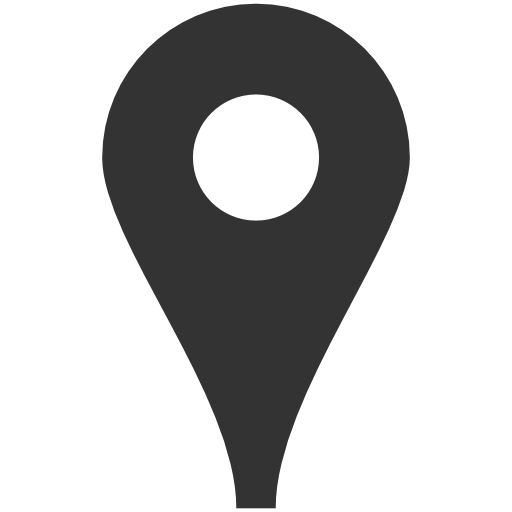
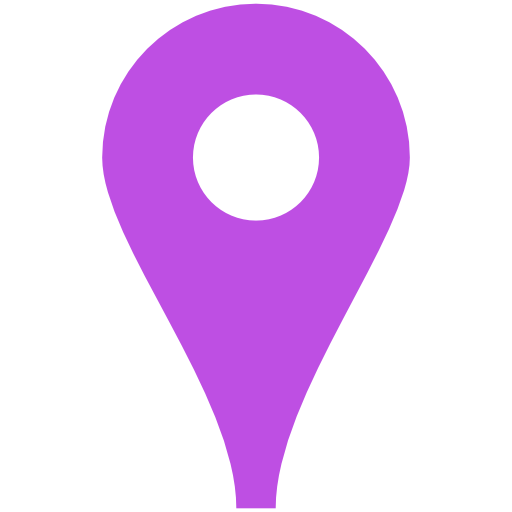
new the tablet view

diff --git a/tablet.html b/tablet.html
@@ -1,0 +1,65 @@
+<!DOCTYPE html>
+<html lang="en">
+	<head>
+		<!-- meta tags -->
+		<meta charset="UTF-8">
+		<meta name="copyright" content="© 2014 Lucas Wang" />
+		<meta name="description" content="Lucas Wang's Personal Website" />
+		<meta name="keywords" content="Lucas Wang" />
+		<meta name="author" lang="en" content="Lucas Wang" />
+		<meta name="googlebot" content="all" />
+		<meta name="viewport" content="width=device-width, user-scalable=no" />
+
+		<!-- social meta tags -->
+		<meta property="og:title" content="Lucas Wang's Personal Website" />
+		<meta property="og:image" content="look/favicon.png" /> 
+		<meta property="og:description" content="Hi from Lucas Wang" />
+		<meta property="og:url" content="http://www.lucaswz.com" />
+
+		<!-- title -->
+		<title>Lucas Wang</title>
+
+		<!-- Stylesheet Library -->
+        <link rel="stylesheet" href="look/global.css">
+        <link rel='stylesheet' href='http://fonts.googleapis.com/css?family=Gafata|Ruda:400,700,900'>
+
+        <!-- Customized Stylesheet -->
+        <link rel="stylesheet" href="look/mobile.css">
+        <link rel="stylesheet" href="look/metablet.css">
+        <link rel="stylesheet" href="look/visualtablet.css">
+        <link rel="stylesheet" href="look/resume.css">
+        <link rel="stylesheet" href="look/contacttablet.css">
+
+        <!-- JavaScript Library -->
+        <script src="http://ajax.googleapis.com/ajax/libs/jquery/2.1.0/jquery.min.js"></script>
+
+        <!-- Customized JavaScript -->
+        <script src="feel/control.js"></script>
+        <script src="feel/me.js"></script>
+        <script src="feel/visual.js"></script>
+        <script src="feel/resume.js"></script>
+        <script src="feel/contact.js"></script>
+
+
+	</head>	
+	<body>
+
+		<header>
+			<div onclick="location.reload();" id="logo"></div> 
+		</header>
+		<div id="note">Design every pixel, code every line, with love.</div>
+		<div id="index-page"><div id="index-page-container">
+			<div id="navbar">
+				<!-- <div onclick="act1st();" class="navitem"><div class="navlogo" id="nav1st"></div><div>About Lucas</div></div> -->
+				<div onclick="act2nd();" class="navitem"><div class="navlogo" id="nav2nd"></div><div>Portfolio</div></div>
+				<!-- <div onclick="window.location.href='../#full'" class="navitem"><div class="navlogo" id="nav3rd"></div><div>Activity</div></div> -->
+				<div onclick="act4th();" class="navitem"><div class="navlogo" id="nav4th"></div><div>Resume</div></div>
+				<div onclick="act5th();" class="navitem"><div class="navlogo" id="nav5th"></div><div>Contact</div></div>
+				<div onclick="window.location.href='../#full'" class="navitem"><div class="navlogo" id="nav6th"></div><div>Full Site</div></div>
+			</div>
+		
+		</div></div>
+
+
+	</body>
+</html>

diff --git a/feel/contact.js b/feel/contact.js
@@ -1,8 +1,9 @@
 function loadContact() {
 	$("#index-page-container").append("<div id=\"address\" ></div>");
 	$("#index-page-container").append("<div id=\"contact-container\" class=\"disselect\"></div>");
-	$("#contact-container").append("<img src='mind/contact/contact.jpg' draggable='false'>");
+	$("#contact-container").append("<img id='contactbackground' src='mind/contact/contact.jpg' draggable='false'>");
 	$("#contact-container").append("<div id=\"contact-item\"></div>");
+	$("#contact-item").append("<div id=\"addresstablet\" class=\"contactitem\"></div>");
 	$("#contact-item").append("<div id=\"skype\" class=\"contactitem\"></div>");
 	$("#contact-item").append("<div id=\"phone\" class=\"contactitem\"></div>");
 	$("#contact-item").append("<div id=\"email\" class=\"contactitem\"></div>");
@@ -25,5 +26,6 @@ function loadContact() {
 	$("#renren").append("<img src=\"mind/contact/renren.png\" draggable='false'><a href=\"http://www.renren.com/285555417\" target=\"_blank\">RR</a>");
 	$("#wechat").append("<img src=\"mind/contact/wechat.png\" draggable='false'><a href='mind/contact/wech.png' data-lightbox='qrcode' title='WeChat QRCode'><img class=\"qrcoder\" src=\"mind/contact/wech.png\" draggable='false'></a>");
 	$("#bbm").append("<img src=\"mind/contact/bbm.png\" draggable='false'><a href='mind/contact/bbmcode.png' data-lightbox='qrcode' title='BlackBerry BBM QRCode'><img class=\"qrcoder\" src=\"mind/contact/bbmcode.png\" draggable='false'></a>");
+	$("#addresstablet").append("<img src=\"mind/contact/address.png\" draggable='false'><a href='https://goo.gl/maps/wpXRz'>VeloCity, U Waterloo</a>");
 
 }

diff --git a/feel/tablet.js b/feel/tablet.js
@@ -1,28 +1,4 @@
-var browserHeight = window.innerHeight;
 
-
-function initial(){
-	$("#index-show").css("height",browserHeight);
-	$("#index-page").css("min-height",browserHeight);
-    if (browserHeight > 700) {
-    	$("#index-show-content").css({"padding-top": browserHeight / 2 - 180, "font-size": "80px"});
-    }
-    else if (browserHeight > 400 && browserHeight <= 700) {
-    	$("#index-show-content").css({"padding-top": browserHeight / 2 - browserHeight/4, "font-size": browserHeight/10 + 10});
-    }
-    else if (browserHeight < 400 && browserHeight >= 300) {
-    	$("#index-show-content").css({"padding-top": browserHeight / 2 - 40, "font-size": "30px"});
-    }
-    else if (browserHeight < 300) {
-    	$("#index-show-content").css({"padding-top": "110px", "font-size": "30px"});
-    }
-    var hash = (window.location.hash).replace('#', '');
-    if (hash === "me") act1st();
-    else if (hash === "portfolio") act2nd();
-    else if (hash === "activity") act3rd();
-    else if (hash === "resume") act4th();
-    else if (hash === "contact") act5th();
-}
 
 function clearpage(navitemname) {
 	document.getElementById('index-page-container').innerHTML = "";

diff --git a/look/contacttablet.css b/look/contacttablet.css
@@ -1,23 +1,27 @@
+iframe {
+	display: none;
+}
+
 #contact-container {
-	width: 600px;
+	width: 100%;
 	margin-left: auto;
 	margin-right: auto;
+
 }
 
 #contact-container img {
-	width: 600px;
+	max-width: 600px;
+	width: 100%;
 	height: auto;
-	margin-top: -3px;
 }
 
 #contact-item {
 	position: absolute;
-	margin-left: 100px;
-	margin-top: -340px;
+	margin-left: 5%;
+	margin-top: 20px;
 }
 
 .contactitem {
-	padding-bottom: 10px;
 }
 
 #contact-item img {
@@ -48,7 +52,7 @@
     -webkit-transform-style: preserve-3d;
 }
 
-#addresstablet {
+#contactbackground {
 	display: none;
 }
 
@@ -56,33 +60,11 @@
 	opacity: .5;
 }
 
-#bbm {
-	margin-left: 250px;
-	margin-top: -150px;
-}
-
-#phone {
-	margin-left: 200px;
-	margin-top: -60px;
-}
-
-#linkedin {
-	margin-left: 230px;
-	margin-top: -60px;
-}
-
-#facebook {
-	margin-left: 120px;
-	margin-top: -60px;
-}
-
-#renren {
-	margin-left: 330px;
-	margin-top: -60px;
-}
-
 #skype a {
 	color: rgb(97,172,250);
+}
+#addresstablet a {
+	color: #be4fe3;
 }
 #github a {
 	color: black;

diff --git a/index.html b/index.html
@@ -46,7 +46,7 @@
 
 	</head>	
 	<body>
-        <script>var hash = (window.location.hash).replace('#', ''); if (detectBroswer() && hash != "full") { window.location.replace("index_mobile.html"); }</script>
+		<script>var hash = (window.location.hash).replace('#', ''); if (detectBroswer() && hash != "full") { window.location.replace("tablet.html"); }</script>
 		<div id="top"></div>
 		<div id="index-nav" class="smooth1000">
 			<div id="index-nav-logo" class="index-nav-container" onclick="actlogo();"></div>
@@ -67,14 +67,12 @@
 			</div>
 		</div>
 		<div id="index-page"><div id="index-page-container">
-			
-
-
 		</div></div>
 		<div id="index-foot" class="disselect"><span>&copy; 2014</span> Lucas Wang</div>
 
 		<!-- Post Script -->
 		<script src="feel/lightbox-2.6.min.js"></script>
 		<script>initial();</script>
+		
 	</body>
 </html>

diff --git a/look/global.css b/look/global.css
@@ -30,6 +30,27 @@ article, aside, footer, header, hgroup, nav, section, figure, figcaption {
     display: block;
 }
 
+a {
+  color: #000;
+  text-decoration: none;
+}
+
+a:hover, a:focus {
+  color: #1D86D1;
+  text-decoration: none;
+  border-bottom: 0;
+}
+
+a:focus {
+  outline: thin dotted;
+  outline: 5px auto -webkit-focus-ring-color;
+  outline-offset: -2px;
+}
+
+img {
+  vertical-align: middle;
+}
+
 .disselect {
     -webkit-touch-callout: none;
     -webkit-user-select: none;

diff --git a/look/visualtablet.css b/look/visualtablet.css
@@ -7,8 +7,6 @@
     transition: all .2s ;
     -webkit-backface-visibility: hidden;
     -webkit-transform-style: preserve-3d;
-    
-    
 }
 
 .visual-projects img:hover {
@@ -16,13 +14,15 @@
 }
 
 #visual-projects-container {
-	width: 600px;
+	width: 100%;
+	max-width: 600px;
 	margin-left: auto;
 	margin-right: auto;
 }
 
 #visual-projects-container img {
-	width: 600px;
+	width: 100%;
+	max-width: 600px;
 	height: auto;
 }
 

diff --git a/look/mobile.css b/look/mobile.css
@@ -27,6 +27,7 @@ header {
   background-repeat: no-repeat;
   float: left;
   margin: 15px;
+  cursor: pointer;
 }
 
 #note {
